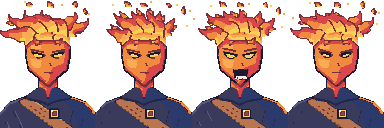
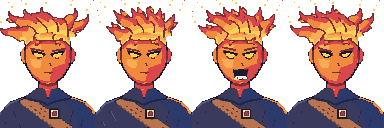
Flint bust: ears, softer chin, lifted lids, rising sparks instead of wisps
Claude-Session: https://claude.ai/code/session_01J8LgTLVYzThXjNSRVhWqep

diff --git a/tools/sprites/anime_busts.py b/tools/sprites/anime_busts.py
@@ -192,8 +192,10 @@ def lick(d, parent, t0, side, length, w, s, shade_side=1, ph=0.0):
 
 
 # ---------------------------------------------------------------- the bust
-FACE = [(13.4, 17), (34.6, 17), (35.2, 28), (33.8, 35), (27.2, 40.4), (24, 43.0), (20.8, 40.4),
-        (14.2, 35), (12.8, 28)]
+FACE = [(13.4, 17), (34.6, 17), (35.6, 27.5), (35.0, 33), (31.6, 38.6), (27.6, 41.6), (24, 42.4), (20.4, 41.6),
+        (16.4, 38.6), (13.0, 33), (12.4, 27.5)]
+EAR_L = [(14.2, 23.4), (11.8, 24.0), (10.4, 26.4), (10.6, 29.6), (12.0, 31.8), (14.4, 32.2)]
+EAR_R = [(48 - x, y) for x, y in EAR_L]
 NECK = [(19.6, 35), (28.4, 35), (29.2, 45), (18.8, 45)]
 TORSO = [(0, 64), (0, 53), (5, 47.5), (14, 44.2), (20.2, 42.6), (24, 47.8), (27.8, 42.6), (34, 44.2), (43, 47.5),
          (48, 53), (48, 64)]
@@ -201,12 +203,12 @@ TORSO = [(0, 64), (0, 53), (5, 47.5), (14, 44.2), (20.2, 42.6), (24, 47.8), (27.
 # One flame in a wind, mostly swept up and left, with two tongues rising on the right.
 # root, tip, width, bend. Drawn back to front.
 TONGUES = [
-    ((34.5, 18.5), (41.5, 8.0), 7, -3.0),
-    ((31.5, 16.5), (34.5, 4.8), 7.5, -2.6),
-    ((30, 17.5), (23.5, 4.2), 8, 3.4),
-    ((25, 16), (15, 4.6), 8, 3.6),
-    ((20, 17), (6.5, 6.0), 8, 3.4),
-    ((16, 20.5), (2.2, 13.5), 8, 3.0),
+    ((34.5, 18.5), (41.5, 6.0), 7, -3.0),
+    ((31.5, 16.5), (34.5, 3.2), 7.5, -2.6),
+    ((30, 17.5), (23.5, 2.4), 8, 3.4),
+    ((25, 16), (15, 2.8), 8, 3.6),
+    ((20, 17), (6.5, 4.4), 8, 3.4),
+    ((16, 20.5), (2.2, 12.0), 8, 3.0),
 ]
 # lick: parent index, t along the parent, side, length, width
 LICKS = [(0, 0.45, 1, 3.4, 3.4), (1, 0.5, 1, 3.0, 3.2), (2, 0.5, -1, 3.6, 3.6), (2, 0.7, 1, 2.6, 3.0),
@@ -227,22 +229,22 @@ def eye(d, cx, cy, side, o, wide=1.0):
     """side -1 = left eye (outer corner on the left). Narrow, outer corner angled up, straight heavy
     upper lid, clean almond iris with a maroon rim, cream highlight."""
     ow = 3.2 * wide
-    outer = (cx + side * ow, cy - 1.9)
-    inner = (cx - side * ow, cy - 0.1)
+    outer = (cx + side * ow, cy - 2.4)
+    inner = (cx - side * ow, cy - 0.6)
     up = [(outer[0] + (inner[0] - outer[0]) * k / 6, outer[1] + (inner[1] - outer[1]) * k / 6) for k in range(7)]
     lo = smooth([inner, (cx - side * 0.9, cy + 0.55 * o + 0.3), (cx + side * 1.2, cy + 0.4 * o + 0.1), outer])
     pts = up + lo
     d.polygon([P(*p) for p in pts], fill=YELLOW)
     d.line([P(*p) for p in lo], fill=MAROON, width=6)
-    hx, hy = cx + side * 0.5, cy - 0.7
+    hx, hy = cx + side * 0.5, cy - 1.0
     d.rectangle((hx * K - 6, hy * K - 6, hx * K + 6, hy * K + 6), fill=CREAM)
     d.line([P(*p) for p in up], fill=INK, width=11)
 
 
 def brow(d, cx, cy, side, lift=0.0, tilt=1.0):
     """Short thick V stroke sitting right on the lid, inner end lower."""
-    outer = (cx + side * 4.2, cy - 3.3 - lift - 0.5 * (tilt - 1))
-    inner = (cx - side * 2.7, cy - 1.9 - lift + 0.4 * (tilt - 1))
+    outer = (cx + side * 4.2, cy - 3.8 - lift - 0.5 * (tilt - 1))
+    inner = (cx - side * 2.7, cy - 2.4 - lift + 0.4 * (tilt - 1))
     d.line([P(*outer), P(*inner)], fill=MAROON, width=11)
 
 
@@ -317,11 +319,18 @@ def draw_face(img, neckm, torm, expr):
     jaw2 = both(both(shift(facem, int(4 * F), int(8 * F)), neckm), inv(facem))
     paste_mask(img, MAROON, both(jaw2, inv(torm)))
     d = ImageDraw.Draw(img)
+    # ears: small C shapes tucked behind the face, lit left, shadowed right, maroon inner fold
+    shape(d, EAR_L, ORANGE)
+    shape(d, EAR_R, RED)
+    d.line([P(11.9, 24.9), P(10.9, 26.6), P(11.0, 29.2)], fill=LIGHT_OR, width=4, joint="curve")
+    d.line([P(48 - 11.9, 24.9), P(48 - 10.9, 26.6), P(48 - 11.0, 29.2)], fill=DEEP_RED, width=4, joint="curve")
+    d.line([P(13.0, 25.6), P(12.0, 27.2), P(12.3, 29.8), P(13.4, 30.8)], fill=MAROON, width=4, joint="curve")
+    d.line([P(48 - 13.0, 25.6), P(48 - 12.0, 27.2), P(48 - 12.3, 29.8), P(48 - 13.4, 30.8)], fill=MAROON, width=4, joint="curve")
     shape(d, FACE, ORANGE)
     paste_mask(img, LIGHT_OR, both(facem, poly_mask([(15.0, 29.0), (21.0, 30.0), (20.2, 34.0), (17.6, 34.2), (15.4, 32.5)])))
     paste_mask(img, LIGHT_OR, both(facem, poly_mask([(15.4, 22.5), (21, 22.5), (20.5, 24.5), (15.2, 25)])))
     paste_mask(img, RED, both(facem, inv(shift(facem, int(-22 * F), 0))))
-    paste_mask(img, RED, both(facem, poly_mask([(26.0, 34.0), (34.8, 30.5), (33.6, 35.5), (27.0, 40.8), (24.5, 40)])))
+    paste_mask(img, RED, both(facem, poly_mask([(26.0, 34.0), (35.4, 30.5), (34.4, 35.5), (28.0, 41.4), (24.5, 41)])))
     chin = both(facem, inv(shift(facem, 0, int(-14 * F))))
     paste_mask(img, RED, both(chin, shift(facem, int(-30 * F), 0)))
     paste_mask(img, DEEP_RED, both(both(facem, inv(shift(facem, int(-9 * F), 0))), box_mask(0, 25, 48, 40)))
@@ -352,10 +361,7 @@ def draw_hair(img, facem, s):
     poly(hd, cap_pts, ORANGE)
     outline(hd, CAP_TOP[1:-1], w=6, closed=False, col=DEEP_RED)
     cap = poly_mask(cap_pts)
-    # wisps floating above the tips, then back-to-front tongues with their licks
-    for k, (r, t, w) in enumerate(WISPS):
-        flick = 0.5 * s * (1 if k % 2 else -1)
-        tongue(hd, (r[0] + flick, r[1]), (t[0] + flick * 1.6, t[1] + 0.6 * s * (-1) ** k), w, 0.6, ph=k, wave=0.1, n=12, ow=4)
+    # back-to-front tongues with their licks
     params = []
     for i, (r, t, w, b) in enumerate(TONGUES):
         sw = s * (2.2 + 0.3 * (i % 2)) * (-1 if i < 2 else 1)
@@ -389,22 +395,27 @@ def draw_frame(sway=0.0, expr="calm"):
     return img
 
 
-EMBERS = [((44.5, 12.0), YELLOW), ((45.5, 6.0), LIGHT_OR), ((39.0, 1.6), YELLOW), ((29.0, 1.4), LIGHT_OR),
-          ((10.0, 1.6), YELLOW), ((1.2, 8.5), LIGHT_OR)]
+# Sparks rising off the tips, hottest first: yellow 2x2, orange 1x1, red 1x1, drifting up and away.
+SPARKS = [  # first spark position (design units), per-step drift
+    ((5.0, 3.4), (-1.5, -1.5)), ((13.6, 1.8), (-1.4, -1.3)), ((22.0, 1.2), (-1.3, -1.1)),
+    ((36.0, 2.0), (1.0, -1.4)), ((42.6, 4.8), (1.1, -1.6)), ((0.9, 10.6), (-0.6, -1.8)),
+]
+SPARK_STEPS = [(YELLOW, 2), (LIGHT_OR, 1), (RED, 1)]
 
 
 def add_embers(out, sway, expr):
-    """Little 2x2 embers drifting off the flame, placed on the finished pixel art."""
+    """1-2 px sparks that rise and cool (yellow, orange, red), placed on the finished pixel art."""
     px = out.load()
     u = OW / 48
-    for k, ((x, y), col) in enumerate(EMBERS):
-        x += sway * (0.8 + 0.3 * k) * (1 if k < 3 else -1)
-        y += -sway * 0.8 * (1 if k % 2 else -1) + (0.8 if expr == "shout" else 0)
-        for dx in range(2):
-            for dy in range(2):
-                X, Y = int(x * u) + dx, int(y * u) + dy
-                if 0 <= X < out.width and 0 <= Y < out.height and px[X, Y][3] == 0:
-                    px[X, Y] = col + (255,)
+    for k, ((x, y), (dx, dy)) in enumerate(SPARKS):
+        for j, (col, size) in enumerate(SPARK_STEPS):
+            fl = sway * (0.7 + 0.3 * j) * (1 if k % 2 else -1)
+            X = int((x + dx * j * 1.3 + fl) * u)
+            Y = int((y + dy * j * 1.3 - abs(sway) * 0.4 * j) * u)
+            for ax in range(size):
+                for ay in range(size):
+                    if 0 <= X + ax < out.width and 0 <= Y + ay < out.height and px[X + ax, Y + ay][3] == 0:
+                        px[X + ax, Y + ay] = col + (255,)
 
 
 def snap(art, mask):
